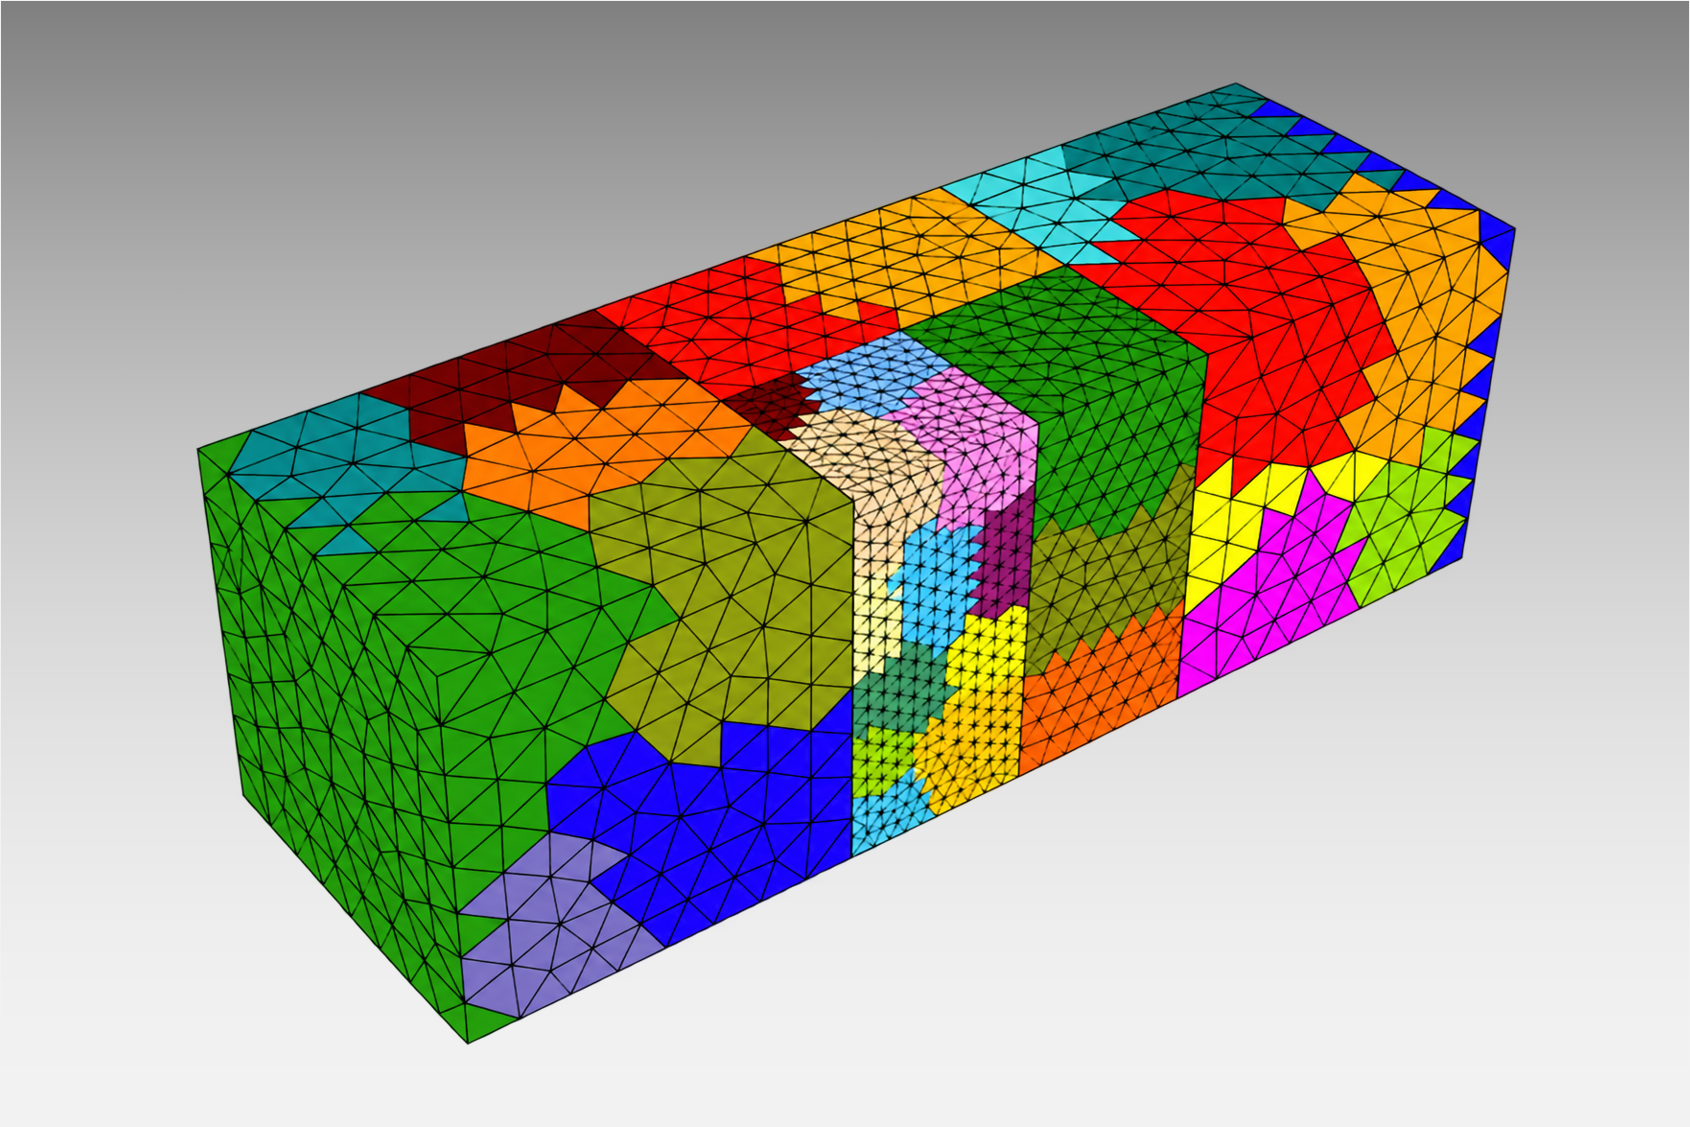
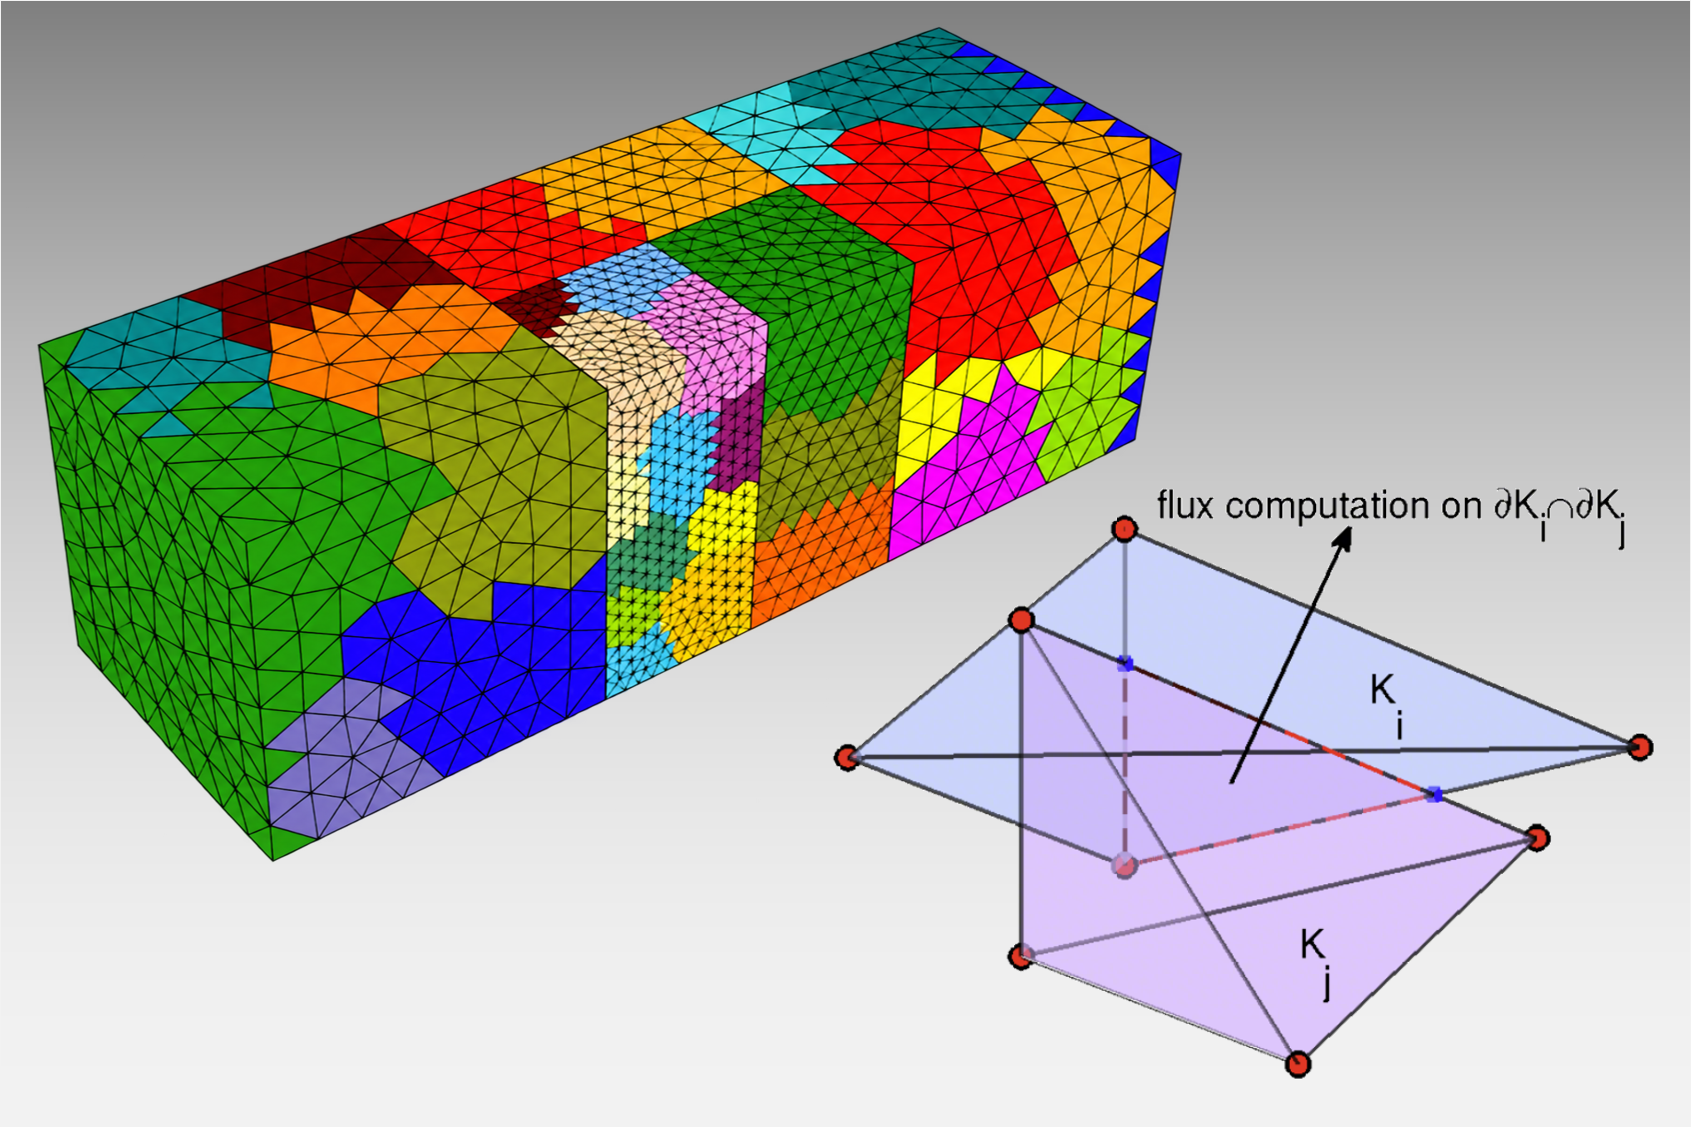
update

diff --git a/_projects/project_9_ai.md b/_projects/project_9_ai.md
@@ -34,7 +34,7 @@ By selecting representative TE and TM plane-wave conditions, the coefficients of
     </div>
 </div>
 <div class="caption">
-    The formulation and application of data-driven ABC.
+    Construction and representative applications of the data-driven higher-order ABC.
 </div>
 
 This perspective provides a route toward constructing **problem-adapted boundary operators from sampled EM responses**, rather than restricting their forms entirely through analytical derivation.
@@ -42,9 +42,9 @@ This perspective provides a route toward constructing **problem-adapted boundary
 
 ## Higher-Order Impedance & Transition Conditions
 
-The same idea can be extended from ABC to **higher-order impedance boundary conditions (IBCs) or more general transition conditions (GTCs)**. In the ABC formulation, the boundary operator is determined from prescribed reflection behavior of incident waves. For a penetrable or metasurface-type structure, this idea is naturally generalized by considering both reflection and transmission responses.
+The same idea can be extended from ABC to **higher-order impedance boundary conditions (IBCs) or more general transition conditions (GTCs)**. In the ABC formulation, the boundary operator is determined from prescribed reflection behavior of incident waves. For penetrable surfaces or metasurface-type structures, this concept is naturally generalized by considering both reflection and transmission responses.
 
-For geometrically complex structures such as frequency-selective surfaces or metamaterial layers, representative TE and TM scattering data are first obtained over different incidence conditions. Effective IBCs or GTCs can then be constructed to replace the original fine-scale structures in CEM simulations, substantially reducing geometrical and computational complexity.
+For geometrically complex structures such as frequency-selective surfaces or metamaterial layers, representative TE and TM scattering responses are sampled over different incidence conditions. Effective IBCs or GTCs can then replace the original fine-scale structures in CEM simulations, substantially reducing geometrical and computational complexity.
 
 <div class="row align-items-center justify-content-sm-center">
     <div class="col-sm mt-3 mt-md-0">
@@ -56,7 +56,7 @@ For geometrically complex structures such as frequency-selective surfaces or met
     </div>
 </div>
 <div class="caption">
-    The formulation and application of data-driven IBC/GTC.
+    Construction and representative applications of data-driven IBC/GTC models.
 </div>
 
 This work forms part of our broader interest in learning compact physical operators from electromagnetic response data.
@@ -64,9 +64,9 @@ This work forms part of our broader interest in learning compact physical operat
 
 ## Randomized PCA & Matrix Learning
 
-Large electromagnetic systems frequently contain **hidden low-dimensional structures** even when their original matrix representations are extremely large. We employ randomized sampling and principal component analysis (PCA) to identify these structures without explicitly constructing or decomposing the complete dense operators.
+Large electromagnetic systems frequently contain **hidden low-dimensional structures**, even when their original matrix representations are extremely large. We employ randomized sampling and principal component analysis (PCA) to identify these structures without explicitly constructing or decomposing the complete operators.
 
-For domain decomposition systems, randomized excitations are applied to sample the system response, while an adaptive PCA procedure extracts a reduced basis for constructing efficient preconditioners. Related randomized low-rank techniques are also incorporated into hierarchical direct solvers, where sampled matrix interactions are compressed during recursive skeletonization and factorization.
+For domain decomposition systems, randomized probing vectors are used to sample system responses, while an adaptive PCA procedure extracts dominant low-dimensional subspaces for constructing efficient preconditioners. Related randomized low-rank techniques are also incorporated into hierarchical direct solvers, where matrix interactions are sampled and compressed during recursive skeletonization and factorization.
 
 These approaches combine **randomized numerical linear algebra with the physical and geometrical structures of CEM systems**, providing reduced representations directly within conventional electromagnetic solvers.
 
@@ -80,14 +80,13 @@ These approaches combine **randomized numerical linear algebra with the physical
     </div>
 </div>
 <div class="caption">
-    Representative application of randomized matrix techniques.
+    Randomized sampling and low-dimensional approximation of large electromagnetic systems.
 </div>
 
 ## Ongoing Research
 
-Our ongoing research explores the integration of **machine learning with physics-based CEM algorithms**, with the objective of assisting rather than replacing established numerical solvers, such as combining learned models with FEM, domain decomposition, and reduced-order computation.
-Another direction investigates **data learning for IC and PCB analysis**, where large collections of geometrical, material, circuit, and electromagnetic data
-can be used to identify correlations between physical design parameters and system-level electromagnetic behavior.
+Our ongoing research explores the integration of **machine learning with physics-based CEM algorithms**, with the objective of assisting rather than replacing established numerical solvers. Current directions include combining learned models with FEM, domain decomposition, and reduced-order computation.
+Another direction investigates **data learning for IC and PCB analysis**, where large collections of geometrical, material, circuit, and electromagnetic data can be used to identify correlations between physical design parameters and system-level electromagnetic behavior.
 
 
 <br>
@@ -96,7 +95,7 @@ can be used to identify correlations between physical design parameters and syst
 
 -  Higher-Order Absorbing Boundary Conditions & Incorporate Generalized Impedance Boundary Condition into FEM formulation -- collaborative research with *Ansys, Inc.* 
 
-- Earlier ABC & IBC research was conducted in collaboration with Dr. Jingyue Zhang and Prof. Jin-Fa Lee at The Ohio State University.
+- Earlier research on ABCs and GTCs was conducted in collaboration with Dr. Jingyue Zhang and Prof. Jin-Fa Lee at The Ohio State University.
 
 --
 

diff --git a/_projects/project_4_emc.md b/_projects/project_4_emc.md
@@ -2,7 +2,7 @@
 layout: page
 title: EMC/EMI & Side-Channel Analysis
 description: electromagnetic reliability, security, and signal/power integrity
-img: assets/img/10.jpg
+img: assets/img/projects/project_emc.png
 importance: 2
 category: application
 research_id: emc

diff --git a/_projects/project_8_ap.md b/_projects/project_8_ap.md
@@ -2,7 +2,7 @@
 layout: page
 title: Antenna & Material Modeling
 description: antenna arrays, frequency selective surfaces, artificial materials
-img: assets/img/9.jpg
+img: assets/img/projects/project_ap.png
 importance: 1
 category: application
 research_id: ap

diff --git a/_projects/project_3_nestedh.md b/_projects/project_3_nestedh.md
@@ -2,7 +2,7 @@
 layout: page
 title: Robust Direct Solvers
 description: sparse factorization, skeletonization, and low-rank compression
-img: assets/img/7.jpg
+img: assets/img/projects/project_nestedh.png
 importance: 3
 category: algorithm
 research_id: nestedh

diff --git a/_projects/project_7_mphy.md b/_projects/project_7_mphy.md
@@ -2,7 +2,7 @@
 layout: page
 title: Coupled-Physics Algorithms
 description: coupled electromagnetic, circuit, and thermal computation
-img: assets/img/4.jpg
+img: assets/img/projects/project_mphy.png
 importance: 5
 category: algorithm
 research_id: mphy

diff --git a/_projects/project_6_thermal.md b/_projects/project_6_thermal.md
@@ -2,7 +2,7 @@
 layout: page
 title: Thermal & Multiphysics
 description: electronics heating, high-power EMI
-img: assets/img/7.jpg
+img: assets/img/projects/project_thermal.png
 importance: 3
 category: application
 research_id: thermal
